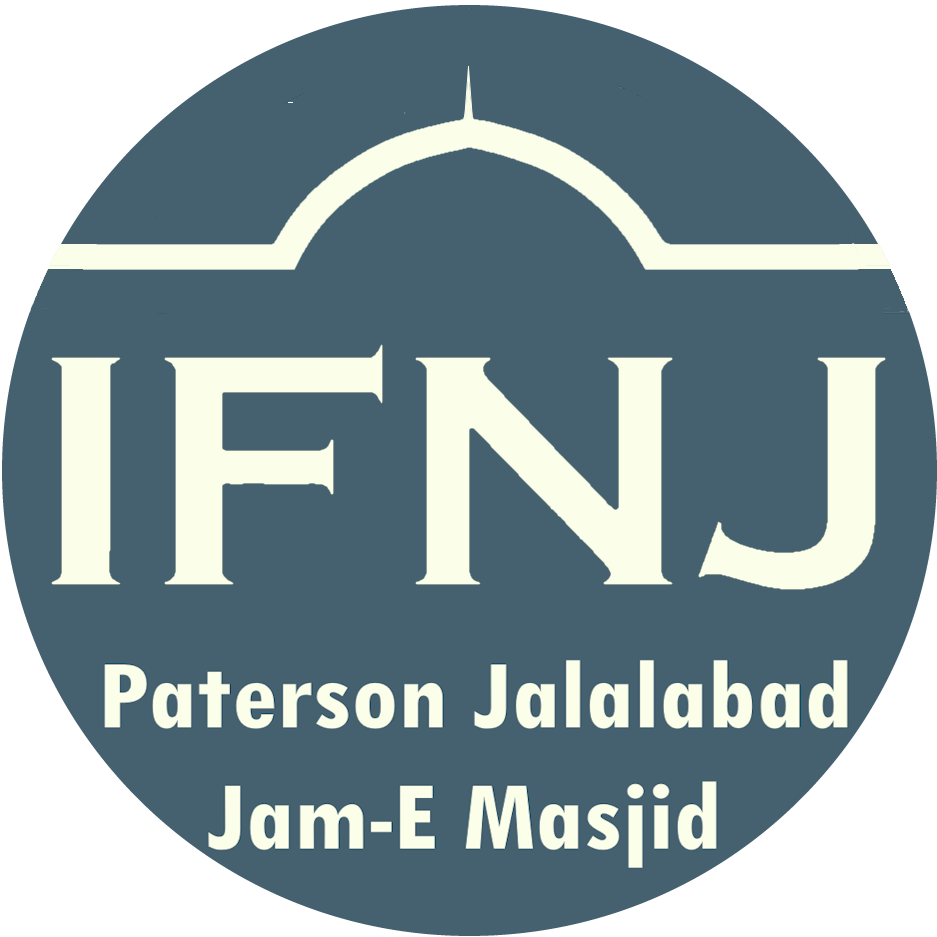
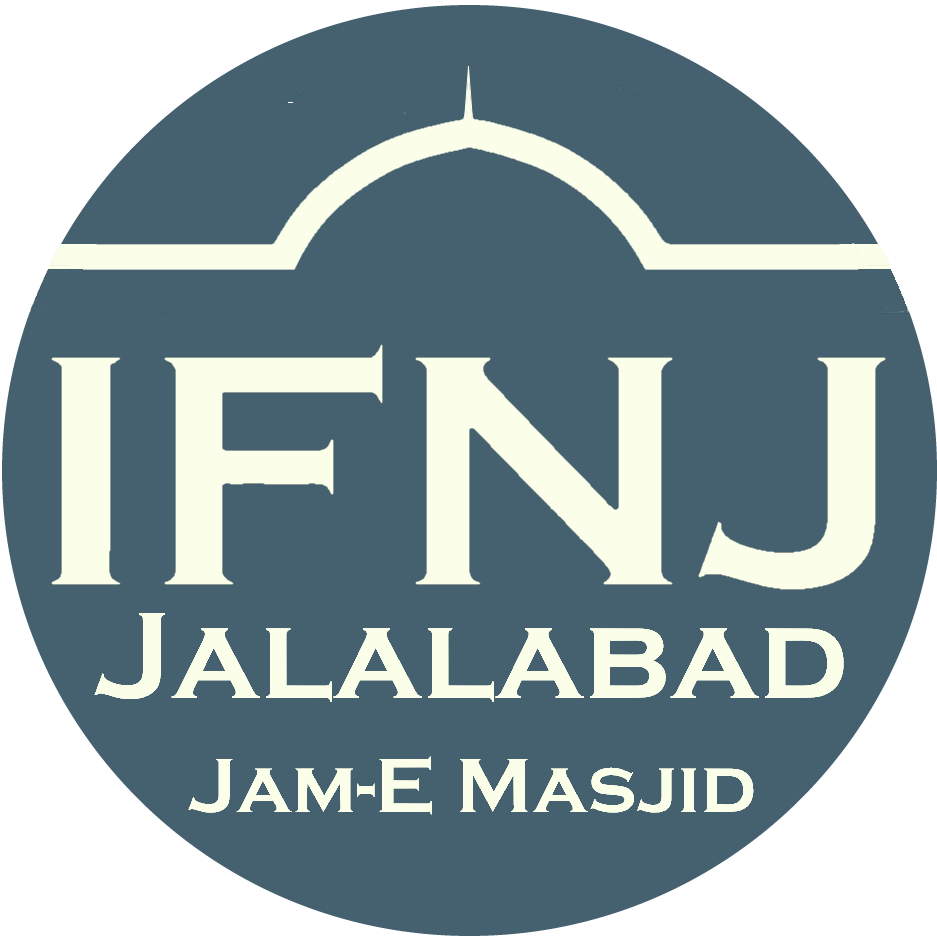
Styling update

Changed region(s): [[0.0928, 0.6499, 0.9285, 0.7737], [0.4952, 0.8047, 0.8047, 0.9285], [0.1857, 0.8047, 0.4642, 0.9285]]

diff --git a/index.html b/index.html
@@ -100,7 +100,7 @@
 				</h1>
 
 				<!-- <section id="slogan">
-					<h2>Paterson Jalalabad Jam-E Masjid<br>
+					<h2>Jalalabad Jam-E Masjid<br>
 						<address style="font-size: large;">61 Van Houten St, Paterson, NJ 07505</address>
 					</h2>
 				</section> -->
@@ -109,7 +109,7 @@
 					<img src="assets/images/ifnj_proposed_architecture.png" alt="Planned Architecture">
 				
 					<section class="caption" id="slogan">
-						<h2>Paterson Jalalabad Jam-E Masjid<br>
+						<h2>Jalalabad Jam-E Masjid<br>
 							<address style="font-size: large;">61 Van Houten St, Paterson, NJ 07505</address>
 						</h2>
 					</section>
@@ -266,13 +266,13 @@
 
 					<!-- <hr style="margin-block: 30px;"> -->
 
-					<section>
+					<!-- <section>
 						<h2>Weekly Masail Program by Mufti Fatehul Islam</h2>
 						<ul>
 							<li>Every Saturday After Isha Salah. Everyone is invited.</li>
 						</ul>
 						<a href="home.html#masail-recordings" onclick="toggleContentAndJumpToSection('recordings-page', 'home.html#masail-recordings')">Check recordings</a>
-					</section>
+					</section> -->
 
 					<!-- <hr style="margin-block: 30px;"> -->
 
@@ -309,7 +309,7 @@
 			<!-- Prayer Schedule page contents -->
 			<article id="prayer-page" class="page-content">
 
-				<h2 class="page-heading">Prayer Schedule of Paterson Jalalabad Jam-E Masjid</h2>
+				<h2 class="page-heading">Prayer Schedule of Jalalabad Jam-E Masjid</h2>
 				
 				<div style="width: 100%; margin: 0 auto;">
 					<img src="assets/images/ifnj_indoor_horizontal_2.png" alt="IFNJ Indoor"
@@ -362,7 +362,7 @@
 
 			<!-- Location Map page contents -->
 			<article id="map-page" class="page-content" style="width: 100%;">
-				<h2 class="page-heading">Map Location of Paterson Jalalabad Jam-E
+				<h2 class="page-heading">Map Location of Jalalabad Jam-E
 					Masjid
 				</h2>
 				
@@ -478,9 +478,9 @@
 				<p>
 					<h3>IFNJ Membership Form</h3>
 					<div class="bg-blue-button" style="width: max-content; margin-inline: auto; border-radius: 50px; display: flex; flex-direction: row;">
-					<button id="openBtn" class="menu-button" style="font-size: medium; margin: 0px;"><i class="fa-solid fa-file-pdf"></i> OPEN</button>
-					<a id="openBtn_mobile" href="assets/documents/ifnj-membership.pdf" target="_blank" style=" margin: 0px; text-decoration: none;"><button class="menu-button" style="font-size: medium; margin:0px"><i class="fa-solid fa-file-pdf"></i> OPEN</button></a>
-					<a id="ifnj-membership-form-download" download href="assets/documents/ifnj-membership.pdf" target="_blank" style="margin: 0px; text-decoration: none;"><button class="menu-button" style="font-size: medium; margin:0px; display: flex; flex-direction: row;"><i class="fa-solid fa-download"></i> DOWNLOAD</button></a>
+					<button id="openBtn" class="menu-button" style="font-size: medium; margin: 0px;"><span class="fa-solid fa-file-pdf"></span> Open</button>
+					<!-- <a id="openBtn_mobile" href="assets/documents/ifnj-membership.pdf" target="_blank" style=" margin: 0px; text-decoration: none;"><button class="menu-button" style="font-size: medium; margin:0px"><i class="fa-solid fa-file-pdf"></i> OPEN</button></a> -->
+					<a id="ifnj-membership-form-download" href="assets/documents/ifnj-membership.pdf" target="_blank" download style="margin: 0px; text-decoration: none;"><button class="menu-button" style="font-size: medium; margin:0px; white-space: nowrap;"><span class="fa-solid fa-download"></span> Download</button></a>
 				</div><BR>
 					<small style="margin: 15px;">File size: 53.2 KB, file type: .pdf</small>
 				</p>
@@ -497,7 +497,7 @@
 			<!-- Guestbook page contents -->
 			<article id="guestbook-page" class="page-content">
 
-				<h2 class="page-heading">Guestbook of Paterson Jalalabad Jam-E Masjid</h2>
+				<h2 class="page-heading">Guestbook of Jalalabad Jam-E Masjid</h2>
 				
 				<div id="guestbook-buttons">
 					<a id="view-guestbook" class="btn-guestbook" rel="noopener" style="float: left;"
@@ -837,7 +837,7 @@
 				<p>
 					If you wish to contact us by e-mail, phone, or letter, please reach out to us at: </p>
 				<h3>Islamic Foundation of New Jersey</h3>
-				<h4>Paterson Jalalabad Jam-E Masjid</h4>
+				<h4>Jalalabad Jam-E Masjid</h4>
 				<address>61 Van Houten St, Paterson, NJ 07505</address>
 				<div style="margin: 10px;"><a href="#map-page" onclick="toggleContent('map-page')">Check map</a></div>
 				<span class="fa-solid fa-mobile"></span> Phone: <a href="tel:+19732796408"> +1(973) 279-6408</a><br>
@@ -906,7 +906,7 @@
 						<tr>
 							<td colspan="2"
 								style="text-align: center; font-weight: 900; font-size: 22px; padding-block: 30px 15px;">
-								Executive Board (2022 - present)
+								Executive Board (2025 - 2026)
 							</td>
 						</tr>
 						<tr>
@@ -923,11 +923,11 @@
 						</tr>
 						<tr>
 							<td>Assistant Secretary</td>
-							<td>Faisal Ahmed</td>
+							<td>Jahid Ahmed</td>
 						</tr>
 						<tr>
 							<td>Treasurer</td>
-							<td>MD Abdul Muhit</td>
+							<td>Mohammad Abdul Muhit</td>
 						</tr>
 						<tr>
 							<td>Assistant Treasurer</td>
@@ -937,11 +937,11 @@
 						<tr>
 							<td>Members</td>
 							<td>
-								AlaUddin Ahmed (Saja Miah)<br>
-								Hamid Ali<br>
-								Mosabbir Ali<br>
 								Siraj Miah<br>
-								Kholku Miah
+								Hamid Ali<br>
+								Helal Khan<br>
+								Sahidur Rahman<br>
+								Sharif Ahmed
 							</td>
 						</tr>
 					</tbody>
@@ -1044,7 +1044,7 @@
 
 	<footer id="footer">
 		<h4>Islamic Foundation of New Jersey</h4>
-		<address>Paterson Jalalabad Jam-E Masjid <br> 61 Van Houten St, Paterson, NJ 07505</address>
+		<address>Jalalabad Jam-E Masjid <br> 61 Van Houten St, Paterson, NJ 07505</address>
 		<span class="fa-solid fa-mobile"></span><span> Phone: </span><a href="tel:+19732796408"> +1(973) 279-6408</a><br>
 		<span class="fa-solid fa-at"></span><span> Email: </span><a href="mailto:info@ifnj.org">info@ifnj.org</a><br>
 		<span class="fa-solid fa-globe"></span><span> Website: </span><a href="http://www.ifnj.org/"

diff --git a/assets/styles/style.css b/assets/styles/style.css
@@ -20,7 +20,7 @@ blockquote {
     margin: 0;
     padding: 0;
     box-sizing: border-box;
-    font-family: Calibri, 'Gill Sans', 'Gill Sans MT', 'Trebuchet MS', sans-serif;
+    font-family: Calibri,'Trebuchet MS', sans-serif, Arial, Helvetica, sans-serif;
     /* transition-duration: 0.5s; */
 
 }
@@ -29,7 +29,7 @@ blockquote {
 body {
     color: rgb(255, 248, 237);
     /* background: radial-gradient(circle, #44915b85, #2d8572); */
-    background: radial-gradient(circle, #44915b85, #2d8572);
+    background: radial-gradient(circle, #5d856985, #578279);
     display: flex;
     flex-direction: column;
     align-items: center;
